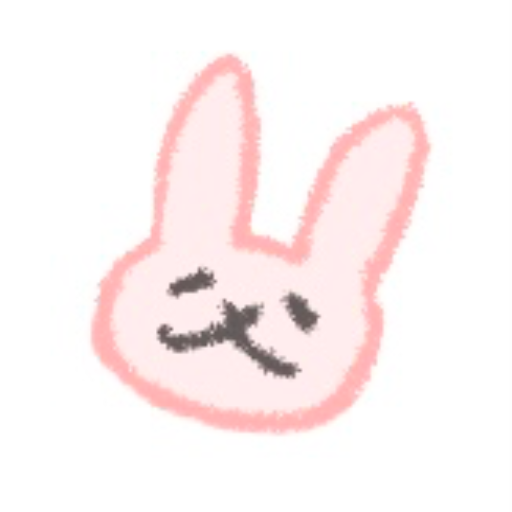
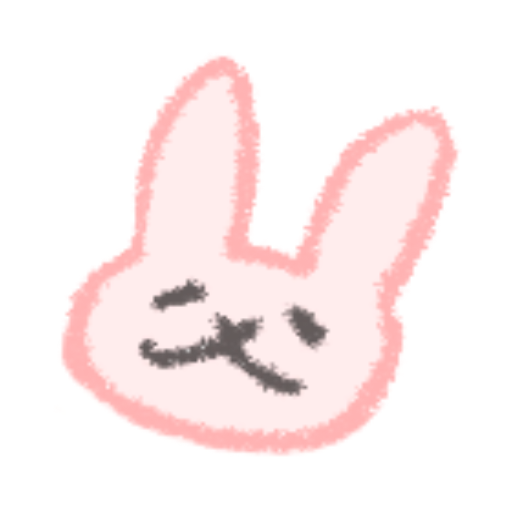
style: asset replace - 배경 제거된 png로

Changed region(s): [[0.0938, 0.0938, 0.9062, 0.9062]]

diff --git a/public/index.html b/public/index.html
@@ -4,7 +4,10 @@
     <meta charset="utf-8" />
     <link rel="icon" href="%PUBLIC_URL%/favicon.ico" />
     <meta name="viewport" content="width=device-width, initial-scale=1" />
-    <meta name="description" content="Web site created using create-react-app" />
+    <meta
+      name="description"
+      content="Web site created using create-react-app"
+    />
     <meta
       property="og:image"
       content="https://github.com/nimgnas/js-algorithm-study/assets/85691654/0cd2b3f3-32c1-4f16-a753-52e855e68d71"
@@ -12,13 +15,38 @@
     <meta property="“og:image:width”" content="1200" />
     <meta property="“og:image:height”" content="630" />
     <meta property="og:title" content="🍡당신을 위한 송편 받으세요" />
-    <meta property="og:description" content="달나라 토끼 묘정이가 빚어준 소원 송편" />
+    <meta
+      property="og:description"
+      content="달나라 토끼 묘정이가 빚어준 소원 송편"
+    />
 
-    <link rel="icon" sizes="192x192" href="%PUBLIC_URL%/img/android-chrome-192x192.png" />
-    <link rel="icon" sizes="512x512" href="%PUBLIC_URL%/img/android-chrome-512x512.png" />
-    <link rel="apple-touch-icon" sizes="180x180" href="%PUBLIC_URL%/img/apple-touch-icon.png" />
-    <link rel="icon" type="image/png" sizes="32x32" href="%PUBLIC_URL%/img/favicon-32x32.png" />
-    <link rel="icon" type="image/png" sizes="16x16" href="%PUBLIC_URL%/img/favicon.ico" />
+    <link
+      rel="icon"
+      sizes="192x192"
+      href="%PUBLIC_URL%/img/android-chrome-192x192.png"
+    />
+    <link
+      rel="icon"
+      sizes="512x512"
+      href="%PUBLIC_URL%/img/android-chrome-512x512.png"
+    />
+    <link
+      rel="apple-touch-icon"
+      sizes="180x180"
+      href="%PUBLIC_URL%/img/apple-touch-icon.png"
+    />
+    <link
+      rel="icon"
+      type="image/png"
+      sizes="32x32"
+      href="%PUBLIC_URL%/img/favicon-32x32.png"
+    />
+    <link
+      rel="icon"
+      type="image/png"
+      sizes="16x16"
+      href="%PUBLIC_URL%/img/favicon.ico"
+    />
     <title>묘정송편</title>
   </head>
   <body>
